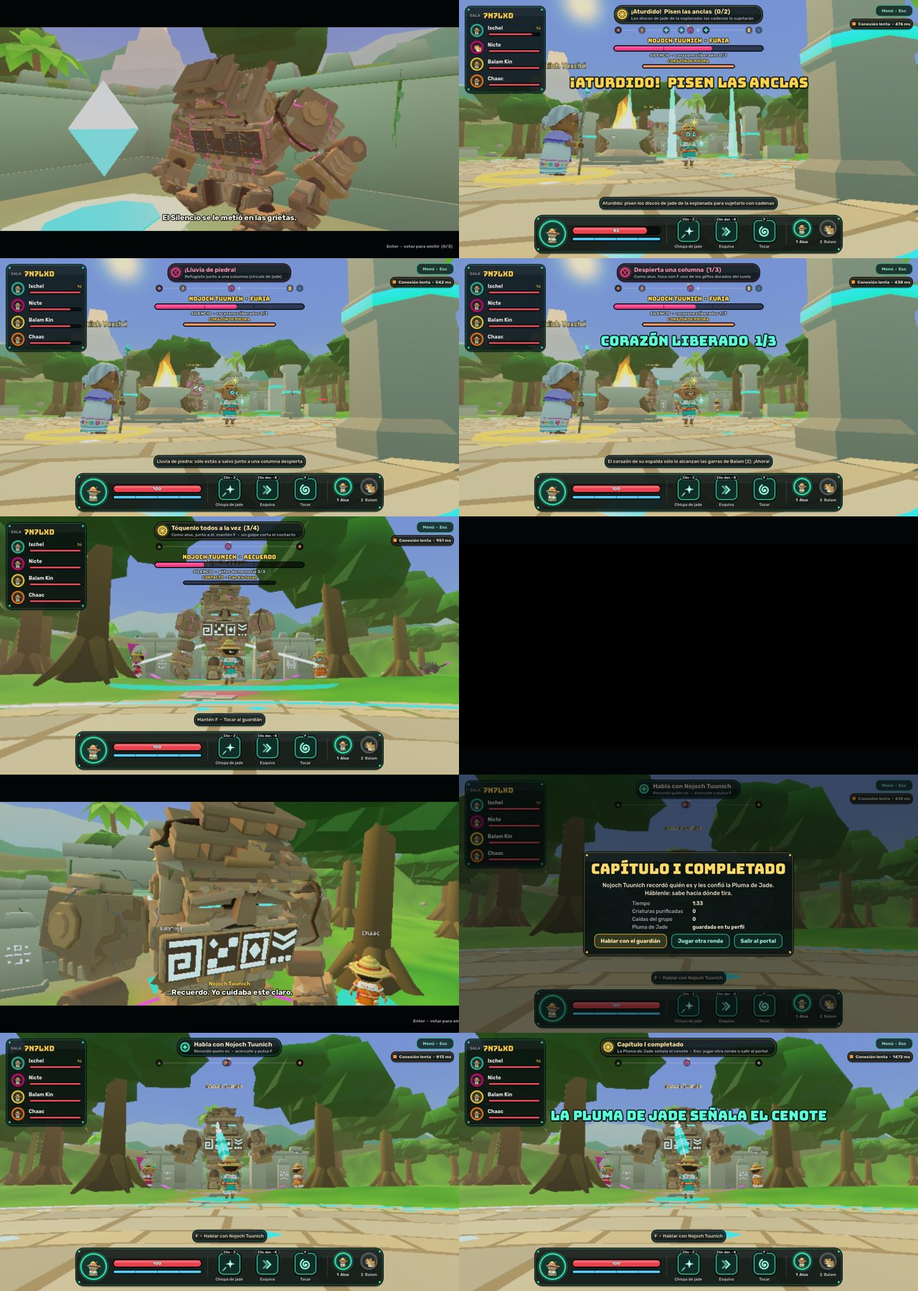
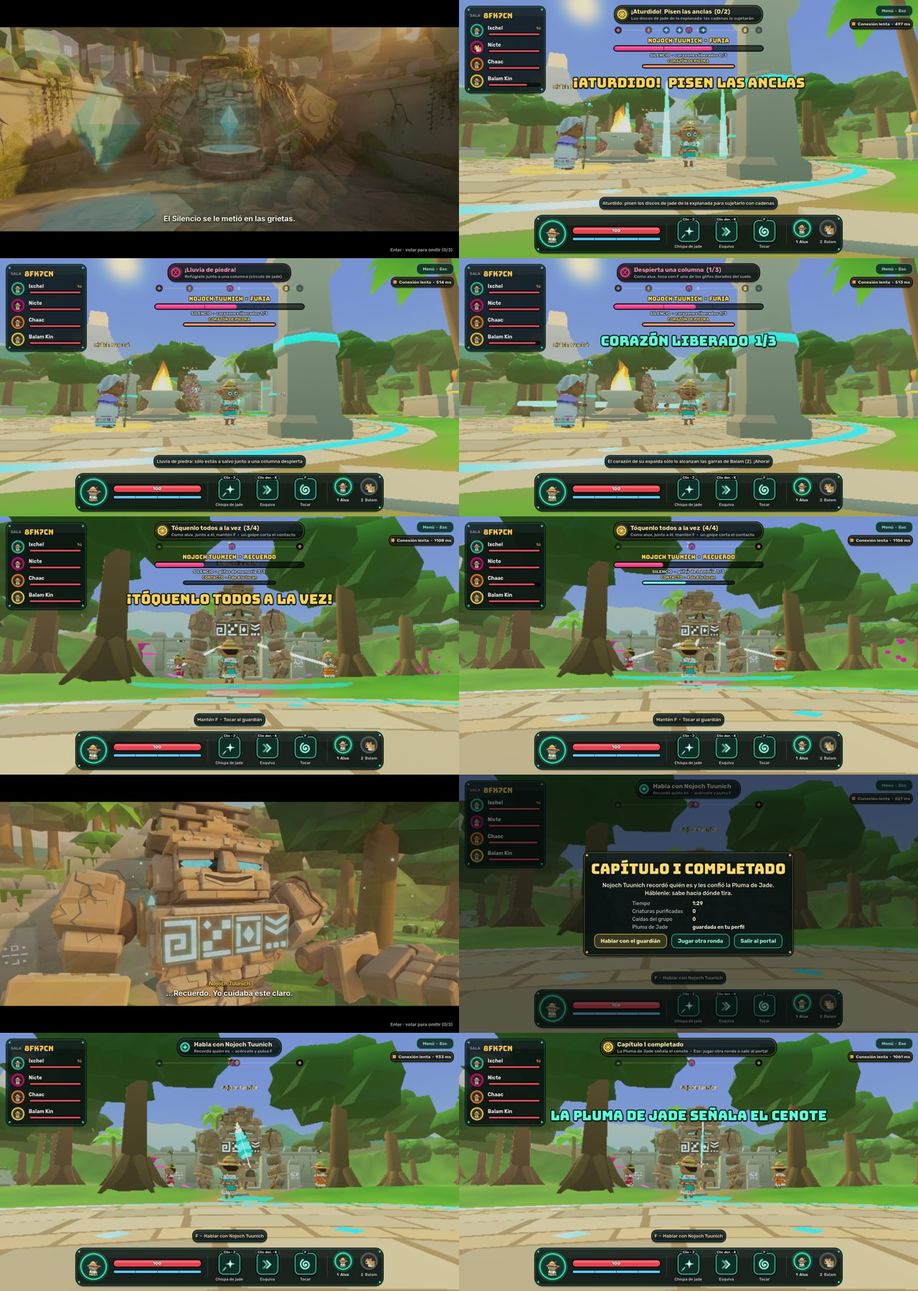
Candidata Alpha 0.3: documentación, pruebas ajustadas y limpieza al cambiar de fase
- Al cambiar de fase y al liberarlo, el guardián suelta a todas las criaturas
  corrompidas que tenga cerca, no sólo a las que él llamó (una criatura del
  claro podía colarse en el combate y quedarse).
- Pruebas ajustadas al despertar con cinemática: el flujo vigila la escena
  mientras el compañero entra al patio; la de altares la omite en grupo; la de
  vídeo sólo mira los clips de la escena que prueba. Variante del combate en
  navegador con el panel de victoria abierto (E2E_PANEL=1).
- La herramienta de capturas informa de llamadas de dibujo y triángulos.
- Etiqueta de la versión: Closed Alpha 0.3 RC1.
- RELEASES, ROADMAP, PLAYTEST, GAME_DESIGN y pendientes al día.

Claude-Session: https://claude.ai/code/session_01L9SqVoHULtq9hWDWFQFpkp

diff --git a/tests/e2e/boss-fight.ts b/tests/e2e/boss-fight.ts
@@ -70,17 +70,23 @@ await Promise.all(cast.map((a) => a.fight(cleared, 240, { form: 'balam', near: {
 await page.keyboard.up('KeyJ');
 assert.ok(cleared(), 'la emboscada se supera');
 await waitFor('panel de victoria', async () => (await st(page)).ui.result === true, 60_000);
-await page.keyboard.press('Enter');   // «Entrar al santuario»
-await waitFor('panel cerrado', async () => (await st(page)).ui.result === false, 30_000);
 let s = await st(page);
-assert.equal(s.encounter, 2, 'Enter en el panel sigue la aventura: no pide otra ronda');
-assert.match(s.ui.objective, /Entra al santuario/);
-ok('Emboscada superada; el panel invita a entrar al santuario');
-
-// La jugadora se queda mirando desde la plaza, fuera del alcance del combate
-await page.mouse.click(640, 300);
 const WATCH = { x: -1.5, z: 3.0 };
-const toWatch = driveTo(page, WATCH.x, WATCH.z, { timeoutMs: 300_000, stop: 1.2 });
+let toWatch: Promise<boolean> = Promise.resolve(true);
+// E2E_PANEL=1: la jugadora deja abierto el panel de victoria; el guardián despierta igual y su
+// cinemática tiene que verse (y cerrar el panel) aunque ella no haya tocado nada
+const keepPanel = process.env.E2E_PANEL === '1';
+if (!keepPanel) {
+  await page.keyboard.press('Enter');   // «Entrar al santuario»
+  await waitFor('panel cerrado', async () => (await st(page)).ui.result === false, 30_000);
+  s = await st(page);
+  assert.equal(s.encounter, 2, 'Enter en el panel sigue la aventura: no pide otra ronda');
+  assert.match(s.ui.objective, /Entra al santuario/);
+  ok('Emboscada superada; el panel invita a entrar al santuario');
+  // La jugadora se queda mirando desde la plaza, fuera del alcance del combate
+  await page.mouse.click(640, 300);
+  toWatch = driveTo(page, WATCH.x, WATCH.z, { timeoutMs: 300_000, stop: 1.2 });
+}
 
 // 3) Fase 1: un compañero entra al patio, el guardián despierta con su cinemática
 const b = () => cast[0].snap?.b as number[];
@@ -106,6 +112,14 @@ assert.match(s.ui.objective, /glifos del guardián/);
 assert.equal(s.music, 'mus_jefe', 'música propia del guardián');
 if (despertarVideo) assert.equal(sawDespertarVideo, true, 'con los vídeos descargados, «El despertar» se ve como vídeo');
 ok(`Fase 1 «Olvido»: despierta para todos con su cinemática (${sawDespertarVideo ? 'vídeo de Kling' : 'versión del motor'}), barra de Silencio y música propia (glifos ${s.boss[7]}/${s.boss[8]})`);
+if (keepPanel) {
+  assert.equal(s.ui.result, false, 'la cinemática cerró el panel de victoria');
+  ok('Con el panel de victoria abierto, «El despertar» se ve igual y el panel no vuelve a salir');
+  clearInterval(alive);
+  cast.forEach((a) => a.ws.close());
+  await browser.close();
+  process.exit(0);
+}
 assert.ok((await p1).every(Boolean), 'los compañeros completan la fase 1');
 await toWatch;
 

diff --git a/tests/e2e/playtest-flow.ts b/tests/e2e/playtest-flow.ts
@@ -187,8 +187,8 @@ if (s.boss !== undefined) {
   assert.equal(s.boss_bar, false, 'dormido no muestra barra');
   const alive = cast.slice(1).map((a) => a.idle(0, 1));
   await cast[0].walkTo(19.5, 0, 'alux', 25);
-  await cast[0].walkTo(25.5, 0, 'alux', 25);
-  const stay = cast[0].idle(1, 0);
+  // (al pisar el patio la sala se pausa para la cinemática: el compañero termina de entrar cuando acaba)
+  const entering = cast[0].walkTo(25.5, 0, 'alux', 60);
   await waitFor('el guardián despierta', async () => (await state(page) as any).boss[0] === 1, 30_000);
   // Su despertar es una cinemática compartida: se ve (con el motor si no hay vídeo) y se omite por mayoría
   await waitFor('cinemática «El despertar»', async () => (await state(page) as any).cine === 'despertar', 60_000);
@@ -196,6 +196,8 @@ if (s.boss !== undefined) {
   await shot(page, '06a-cinematica-despertar.png');
   cast.forEach((a) => a.ws.send(JSON.stringify({ t: 'skip' })));
   await waitFor('fin de «El despertar»', async () => (await state(page) as any).frozen === false && (await state(page) as any).cine === '', 60_000);
+  await entering;
+  const stay = cast[0].idle(1, 0);
   await waitFor('barra de Silencio', async () => (await state(page) as any).boss_bar === true, 15_000);
   s = await state(page);
   assert.match(s.ui.objective, /glifos del guardián/, 'el objetivo explica qué hacer con él');

diff --git a/tests/e2e/cine-video.ts b/tests/e2e/cine-video.ts
@@ -101,7 +101,9 @@ const cases: Record<string, (browser: Browser) => Promise<void>> = {
     assert.deepEqual([s.cine_stats.video, s.cine_stats.engine, s.cine_stats.fallbacks], [1, 0, 0], 'contada como vista en vídeo, sin recurrir al motor');
     assert.equal(s.video.log.length, 0, 'sin fallos registrados');
     await assertResumed(page, s);
-    await waitFor('decodificadores liberados', async () => Object.values(((await state(page)) as any).video.clips).every((c: any) => c.s === 'fetched'), 15_000);
+    // (los vídeos de otras escenas no están en el manifiesto de esta prueba: constan como ausentes)
+    await waitFor('decodificadores liberados', async () => Object.entries(((await state(page)) as any).video.clips)
+      .every(([id, c]: [string, any]) => c.s === (id.startsWith('sello_') ? 'fetched' : 'absent')), 15_000);
     assert.equal(await page.evaluate(() => document.querySelectorAll('#cine video').length), 0, 'al terminar no queda ningún <video> abierto');
     ok(`Vídeo sobre el juego: preparación ${prepMs} ms, tres planos con subtítulos, ${w.videoFrames} cuadros de vídeo, vuelta al juego con la emboscada${shotDone ? '' : ' (sin captura)'}`);
     console.log(`  rendimiento durante la escena: el juego dibuja ${((w.f1 - w.f0) / ((w.t1 - w.t0) / 1000)).toFixed(1)} cuadros/s por debajo (mundo sin dibujar mientras el vídeo lo tapa)`);

diff --git a/tests/protocol.test.ts b/tests/protocol.test.ts
@@ -368,9 +368,12 @@ test('acertijo + emboscada: 4 altares abren el santuario, los 4 pelean juntos y 
   assert.deepEqual([...calls[0].players].sort(), bots.map((b) => b.id).sort());
   assert.ok(bots.every((b) => b.events.some((e) => e.e === 'reward' && e.saved === true)));
 
-  // Con la puerta abierta se puede entrar al santuario
+  // Con la puerta abierta se puede entrar al santuario. Al pisar el patio despierta el guardián y
+  // la sala se pausa para «El despertar»: el grupo la omite y el bot termina de entrar.
+  bots.forEach((b) => { b.autoSkip = true; });
   assert.ok(await bots[3].walkTo(19, 0, 10));
-  assert.ok(await bots[3].walkTo(25, 0, 8), 'debería cruzar la puerta abierta');
+  assert.ok(await bots[3].walkTo(25, 0, 14), 'debería cruzar la puerta abierta');
+  assert.equal(bots[0].snap!.b![0], 1, 'y al entrar al patio despierta el guardián');
   bots.forEach((b) => b.close());
 });
 

diff --git a/apps/portal/app/page.tsx b/apps/portal/app/page.tsx
@@ -55,7 +55,7 @@ export default async function Home({ searchParams }: { searchParams: Promise<{ e
           {betaLoginEnabled && (
             <form className="dev-login beta-login" method="post" action="/auth/beta">
               <input type="hidden" name="next" value={next} />
-              <label htmlFor="beta-code">Closed Alpha 0.2.1 · entra con tu código de invitación</label>
+              <label htmlFor="beta-code">Closed Alpha 0.3 RC1 · entra con tu código de invitación</label>
               <div>
                 <input id="beta-code" name="code" maxLength={64} placeholder="ALUX-XXXXX-XXXXX-XXXXX-XXXXX" autoComplete="off"
                   autoCapitalize="characters" spellCheck={false} required />

diff --git a/docs/ROADMAP.md b/docs/ROADMAP.md
@@ -11,15 +11,15 @@ Pruebas: [PLAYTEST.md](PLAYTEST.md) · Versiones: [RELEASES.md](RELEASES.md).
 | Área | Estado real |
 | --- | --- |
 | Versión publicada | **Closed Alpha 0.2.1** en <https://alux-beta.onrender.com> (rama `beta`, commit `94bb9c8`), desde el 12 nov 2026: la 0.2 con «El sello cede» producida en Kling. Rollback a la 0.2: commit `c28e32c` ([RELEASES.md](RELEASES.md)). |
-| Versión candidata | Ninguna pendiente: `release/alpha-0.2.1-rc1` ya está publicada. |
-| Versión en desarrollo | **Alpha 0.3**, en la rama de trabajo, **sin publicar**: secuelas del sello en el santuario y el jefe Nojoch Tuunich con su fase 1 jugable ([BOSS.md](BOSS.md)). |
+| Versión candidata | **Alpha 0.3 RC1** (`release/alpha-0.3-rc1`): el jefe completo, sus dos cinemáticas y la Pluma de Jade. **Sin publicar**: espera tu visto bueno ([RELEASES.md](RELEASES.md)). |
+| Versión en desarrollo | Lo que siga a la 0.3, en la rama de trabajo. |
 | Multijugador | Servidor autoritativo, 4 jugadores, reconexión, salas. Verificado con bots, navegadores y contra el servicio desplegado (un jugador). **Cuatro personas reales a la vez: sin probar.** |
 | Combate y formas | Alux y Balam, dos enemigos, emboscada, derrota y otra ronda. Datos modulares (`combat_def.gd`). Equilibrio sin probar con personas. |
-| Historia | Introducción, un personaje con diálogo, primer objetivo narrativo y una escena compartida (Alpha 0.2). Sin jefe ni cierre de capítulo. |
-| Cinemáticas | Sistema híbrido y **«El sello cede» con Kling, publicados** (10 s, 284 créditos de 500). Las dos del jefe están diseñadas, con cuadros clave y prompts, sin producir. Quedan 2 375 créditos. |
+| Historia | Introducción, un personaje con diálogo, primer objetivo narrativo, **jefe con tres fases y cierre del capítulo** con la Pluma de Jade y la pista del Cenote (candidata 0.3). Falta «El vínculo de Balam». |
+| Cinemáticas | Sistema híbrido y **tres producidas con Kling**: «El sello cede» (publicada; 284 créditos), «El despertar» y «La liberación» de Nojoch Tuunich (candidata 0.3; 488 créditos de 800). Quedan 1 887 créditos. |
 | Escenario | Un solo mapa, definido en un único archivo compartido (`world_def.gd`). **No hay soporte para varias zonas.** |
-| Arte | Alux, Balam y Chiich Yaxché modelados y con los hilos de las prendas corregidos. Nojoch Tuunich: propuesta de modelo lista para revisar. Enemigos comunes con modelos provisionales. |
-| Audio | 38 sonidos generados por código. **Nadie los ha escuchado.** |
+| Arte | Alux, Balam, Chiich Yaxché y **Nojoch Tuunich (modelo definitivo)** modelados. Enemigos comunes con modelos provisionales. |
+| Audio | 69 sonidos generados por código (31 del jefe, con música por fase). **Nadie los ha escuchado.** |
 | Rendimiento | Medido sólo con render por software. **Sin datos de tarjeta gráfica**; las métricas de cada sesión real ya se registran. |
 | Acceso y datos | Invitaciones individuales, PostgreSQL en Render, migraciones automáticas. Discord real pendiente de credenciales. |
 | Infraestructura | Un contenedor de 512 MB (unos 300 MB con cuatro jugadores). Aviso de pago pendiente en la cuenta de Render. |
@@ -72,8 +72,9 @@ a los demás; ninguna prueba anterior se rompe.
 | **Incremento 1 (hecho)** | Sistema cinematográfico híbrido. |
 | **Incremento 2 (hecho)** | «El sello cede» producida con Kling e integrada, con sus dos tratamientos. |
 | **Incremento 3 (hecho)** | El santuario conserva las consecuencias de «El sello cede»: enredaderas, grietas, glifos que se asientan, restos magenta que se apagan y magia residual. |
-| **Incremento 4 (hecho)** | Nojoch Tuunich: modelo propuesto y fase 1 (Olvido) completa en servidor y cliente, con pruebas para 1, 2 y 4 jugadores. |
-| **Siguiente** | Fase 2 (Furia: anclas, embestida, corazón expuesto y salida a la explanada), fase 3 (Recuerdo), Pluma de Jade y las dos cinemáticas. |
+| **Incremento 4 (hecho)** | Nojoch Tuunich completo: modelo definitivo, tres fases, punto de control por fase, liberación, Pluma de Jade y pista del Cenote; pruebas con bots para 1, 2 y 4 jugadores y combate completo en navegador. |
+| **Incremento 5 (hecho)** | «El despertar» y «La liberación» producidas con Kling e integradas. |
+| **Siguiente** | Tu visto bueno para publicar la candidata. Después: probarla con personas y ajustar ritmo y dificultad; modelos propios de los dos enemigos comunes. |
 | **Dependencias** | Cinemáticas compartidas (0.2, incremento 2). Datos de rendimiento con tarjeta gráfica para decidir cuántos efectos caben. |
 | **Implementación** | El jefe reutiliza la IA de enemigos, los avisos de ataque, los altares de presión, la purificación y la derrota con reintento. |
 | **Pruebas** | Bots: victoria con 1, 2 y 4 jugadores; derrota y reintento; nadie puede saltarse fases desde el cliente. Navegador: flujo completo hasta vencer. |
@@ -84,7 +85,7 @@ a los demás; ninguna prueba anterior se rompe.
 | | |
 | --- | --- |
 | **Objetivo** | Que el capítulo tenga final: recompensa, revelación y camino al siguiente. |
-| **Alcance** | Pluma de Jade como recompensa persistente; cinemática final; «El vínculo de Balam» y el final como vídeo (Kling) con versión dentro del motor de respaldo. El reproductor de vídeo ya existe (0.3). |
+| **Alcance** | (La Pluma de Jade y la cinemática final se adelantaron a la 0.3.) «El vínculo de Balam» como vídeo de Kling con versión del motor; modelos propios de los enemigos; ajustes tras jugar el jefe con personas; la pluma en el aspecto del alux; rehacer el plano 3 de «El sello cede» con el coloso en el patio. |
 | **Dependencias** | Tu aprobación de guiones, storyboards y créditos de Kling. Modelos definitivos (para que los vídeos no queden viejos). |
 | **Aceptación** | El capítulo se juega de principio a fin en 20–30 minutos y deja claro adónde se va después. |
 
@@ -135,6 +136,7 @@ Historia, jefe y cierre de Los Secretos del Cenote, con la misma estructura que 
 | Publicar la Alpha 0.2 | **Autorizada y publicada** el 12 nov 2026. | [RELEASES.md](RELEASES.md) |
 | Publicar la Alpha 0.2.1 | **Autorizada y publicada** el 12 nov 2026, con «El sello cede» de Kling y los modelos corregidos. | [RELEASES.md](RELEASES.md) |
 | Concepto de Nojoch Tuunich | **Aprobado** (12 nov 2026): liberarlo del Silencio, tres fases, fase 2 en la explanada, reintento por fases, Pluma de Jade. | [BOSS.md](BOSS.md) |
+| Cinemáticas del jefe con Kling | **Autorizadas** (12 nov 2026): despertar hasta 450 créditos y liberación hasta 350, con el modelo definitivo y la mecánica verificados. Producidas: 488 en total. | [art/cinematicas/jefe/kling/PRODUCCION.md](../art/cinematicas/jefe/kling/PRODUCCION.md) |
 | Kling en las cinemáticas | **Obligatorio en toda cinemática narrativa** (12 nov 2026), con presupuesto por escena y respaldo del motor. La primera en producirse será «El sello cede». | [CINEMATICS.md](CINEMATICS.md) |
 | Voto para omitir cinemáticas compartidas | **Mayoría de los conectados**; un jugador solo omite al instante. | Implementado en 0.2 |
 
@@ -142,6 +144,4 @@ Historia, jefe y cierre de Los Secretos del Cenote, con la misma estructura que 
 
 | Decisión | Opciones | Recomendación |
 | --- | --- | --- |
-| Modelo de Nojoch Tuunich | Aprobarlo · pedir cambios (cara más serena, más talla, otra crestería) | Pedir al menos la cara y la talla antes de producir vídeos con él |
-| Presupuesto de las cinemáticas del jefe | Despertar (máx. 450) y liberación (máx. 350) · menos · esperar | Aprobarlo cuando el modelo esté cerrado |
-| Publicar la Alpha 0.3 | Cuando el jefe tenga sus tres fases · antes, con la fase 1 como adelanto | Esperar a las tres fases: hoy el combate se queda a medias |
+| Publicar la Alpha 0.3 | Publicar la candidata `release/alpha-0.3-rc1` en `beta` · probarla antes con el grupo en local · esperar | Publicarla: lleva regresión completa y rollback a la 0.2.1 sin tocar datos |

diff --git a/docs/PLAYTEST.md b/docs/PLAYTEST.md
@@ -1,7 +1,7 @@
 # Playtest: guía de la sesión y resultados
 
 
-Una sesión corta (10–15 minutos) para 1 a 4 personas. Esta guía sirve a quien organiza la prueba y
+Una sesión de 20–30 minutos para 1 a 4 personas (10–15 hasta la emboscada; el resto, el guardián). Esta guía sirve a quien organiza la prueba y
 a quien juega por primera vez.
 
 | Bienvenida | Emboscada |
@@ -40,12 +40,20 @@ Para jugar en una sola computadora, ver [README](../README.md#probarlo-en-tu-com
 | 2. Explorar | Objetivo arriba: «Pisa un altar…» o «Pisen N altares…». Los altares salen en la brújula. | Caminar hasta un altar y quedarse encima. Con varios jugadores, uno en cada altar. |
 | 3. Esperar | «Quédate en el altar (2/4) · esperando al grupo». | No moverse hasta que el grupo complete los altares. |
 | 4. Emboscada | Aviso, música de combate y objetivo «Quedan N enemigos». | Vencer o purificar a todos. |
-| 5. Resultado | Panel de **Victoria** (resumen y sello) o de **Derrota**. | Otra ronda, seguir explorando, reintentar o salir. |
+| 5. Resultado | Panel de **Victoria** (resumen y sello) o de **Derrota**. | Enter: entrar al santuario. O reintentar, otra ronda (con su botón) o salir. |
+| 6. El guardián despierta (0.3) | Al entrar al patio, la cinemática «El despertar» y la barra de Silencio. | Fase 1: debilitar criaturas y tocarlas con F **junto a él**. Sus golpes no le hacen nada. |
+| 7. La explanada (0.3) | El guardián sale andando del santuario. Glifos dorados y discos de jade en el suelo. | Fase 2: un alux despierta una columna (F), el grupo hace que embista contra ella, se pisan las anclas y Balam golpea el corazón. Tres veces. Bajo la lluvia de piedra, junto a una columna. |
+| 8. El ritual (0.3) | El guardián se arrodilla. | Fase 3: purificar criaturas junto a él para encender los glifos del suelo; después, todos como alux mantienen F a su lado a la vez. |
+| 9. Liberación (0.3) | Cinemática «La liberación» y panel **Capítulo I completado**. | Hablar con el guardián (F): da la pista del Cenote. La Pluma de Jade queda en el perfil. |
 
 - **Victoria**: no queda ningún enemigo. Todos reciben el Sello del Claro (una sola vez por perfil).
 - **Derrota**: todo el grupo conectado está caído a la vez. El santuario se sella y, a los 6 s, se
   puede volver a pisar los altares.
 - **Otra ronda**: tras la victoria, la piden todos los jugadores (botón del panel o del menú).
+- **Derrota contra el guardián**: si cae todo el grupo, se duerme y el combate se retoma desde la
+  fase alcanzada; no hay que volver a abrir el santuario ni repetir fases.
+
+![El combate con Nojoch Tuunich, fase a fase](img/jefe-fases.jpg)
 
 ## Controles
 
@@ -88,6 +96,18 @@ Los dos enemigos: el **guardián de piedra** (lento, golpea en área, resiste la
 - ¿El volumen por defecto molesta? ¿Algún sonido cansa?
 - ¿Algún momento de confusión con la cámara o el ratón?
 
+Con el guardián (0.3), que nadie ha jugado todavía:
+
+- ¿Entienden que no se le pega, que hay que devolverle la memoria? ¿Cuánto tardan?
+- ¿Descubren solos las columnas, la embestida, las anclas y el corazón, o hace falta explicarlo?
+- ¿Se reparten papeles? ¿Alguien se queda sin nada que hacer?
+- ¿La lluvia de piedra y la embestida se ven venir a tiempo? ¿El daño es justo?
+- ¿El contacto final (todos manteniendo F) se entiende? ¿Frustra cuando una criatura lo corta?
+- ¿Cuánto dura cada fase? ¿Se hace larga alguna?
+- ¿La cara del guardián se lee triste al principio y serena al final?
+- ¿Las dos cinemáticas se ven enteras? ¿Alguien quiere omitirlas?
+- ¿La sacudida de cámara molesta a alguien?
+
 ## Resultados
 
 | Fecha | Versión | Qué se probó | Resultado |
@@ -111,6 +131,7 @@ y las métricas que registró el juego (`npm run beta:metrics`).
 - Los enemigos siguen siendo modelos provisionales.
 - Sin mando ni controles táctiles: teclado y ratón.
 - El rendimiento con tarjeta gráfica real no está medido (ver [rendimiento.md](rendimiento.md)).
-- Un solo escenario y un solo encuentro.
+- Un solo escenario; dos encuentros (la emboscada y el guardián).
+- El combate con el guardián no lo ha jugado ninguna persona: su ritmo y dificultad son una apuesta.
 
 Lo demás, en [pendientes.md](pendientes.md).

diff --git a/docs/pendientes.md b/docs/pendientes.md
@@ -72,19 +72,24 @@ como pendiente debe darse por hecho.
     hablante de maya yucateco.
   - Kling: storyboard de «El vínculo de Balam» aprobado y una toma de prueba hecha (50 créditos por
     5 s). Presupuestos por escena en [CINEMATICS.md](CINEMATICS.md), **todos sin aprobar**.
-- **Jefe Nojoch Tuunich (Alpha 0.3, sin publicar)**
-  - Hecho: fase 1 completa en servidor y cliente, modelo propuesto, barra de Silencio explicada,
-    avisos de ataque, derrota y reintento. Probado con bots para 1, 2 y 4 jugadores.
-  - **Sin programar:** fases 2 y 3, el escenario que cambia (muros, anclas, pilares), la Pluma de
-    Jade y las dos cinemáticas. Al completar la fase 1 el guardián se queda de rodillas.
-  - El golpe de losa deja escombros que hacen daño; el suelo todavía no se hunde.
-  - Sus golpes no se pueden esquivar con ayuda visual más allá del aviso en el suelo: falta probar
-    con personas si se leen a tiempo y si el daño está bien medido.
-  - El modelo es provisional hasta tu revisión: cara adusta, poca talla, caliza verdosa con la luz
-    del juego; las animaciones sólo se han visto en cuadros sueltos.
-  - Sin sonidos propios (usa los de los enemigos) ni presentación: despierta sin escena.
-  - Sin medir su costo en navegador con tarjeta gráfica ni la memoria del servidor en combate.
-  - Chiich Yaxché todavía no dice nada sobre él.
+- **Jefe Nojoch Tuunich (Alpha 0.3, candidata sin publicar)**
+  - Hecho: las tres fases en servidor y cliente, modelo definitivo, punto de control por fase,
+    liberación, Pluma de Jade, pista del Cenote, sonidos, música por fase y las dos cinemáticas con
+    Kling. Probado con bots (1, 2 y 4 jugadores) y en un navegador real con una jugadora y tres bots.
+  - **Nadie lo ha jugado.** Ritmo, dificultad, daño y si las pistas bastan están sin validar. Los
+    bots completan el combate en 2–5 minutos jugando perfecto; con personas será otra cosa.
+  - Las columnas de la fase 2 no son sólidas: dan refugio y paran la embestida, pero se pueden
+    atravesar. Tampoco hay muros que caigan ni suelo que se hunda (exige sólidos dinámicos en la
+    simulación compartida).
+  - El corazón expuesto se alcanza con cualquier golpe de Balam desde el suelo; el diseño original
+    pedía un salto.
+  - La pluma no se ve en el alux (sólo en el perfil y flotando ante el guardián).
+  - En «El sello cede», publicada antes de que existiera, el patio sale **sin** el coloso.
+  - Las cinemáticas usan sonidos generados por código, no audio de Kling; nadie los ha escuchado.
+  - El cambio entre las músicas de fase no va sincronizado al compás.
+  - Sin medir con tarjeta gráfica. Con render por software el combate completo va a 1–3 FPS, como
+    el resto del juego en ese entorno.
+  - Una criatura ambiental del claro puede acercarse al combate y contar para los glifos.
 - **Secuelas del sello en el santuario (Alpha 0.3, sin publicar)**
   - Hechas: enredaderas, grietas, glifos y marcas que se apagan, restos magenta, magia residual.
   - El vídeo sigue siendo más rico que el escenario (luz de atardecer, musgo, piedra tallada).

diff --git a/docs/GAME_DESIGN.md b/docs/GAME_DESIGN.md
@@ -48,15 +48,17 @@ planear, escudo), se añade ese tipo a la simulación compartida con sus pruebas
 | --- | --- | --- | --- |
 | Guardián de piedra | Lento, golpe en área, resiste las chispas | «!» y marca en el suelo antes del golpe | En el juego (modelo provisional) |
 | Criatura corrompida | Rápida, embiste, débil a las chispas, **purificable** | Anillo de jade y «F» cuando ya se puede purificar | En el juego (modelo provisional) |
-| **Nojoch Tuunich**, el Guardián Dormido | Jefe del Capítulo I | Ver abajo | Diseñado |
+| **Nojoch Tuunich**, el Guardián Dormido | Jefe del Capítulo I | Ver abajo | **Hecho** (0.3) |
 
 En la historia, los dos enemigos actuales son los guardianes y los animales del claro tocados por el
 Silencio: por eso algunos se purifican y los de piedra sólo se detienen.
 
 ## Jefe del Capítulo I: Nojoch Tuunich (resumen)
 
-**El diseño completo, con ataques, escenario, cinemáticas y recompensa, está en [BOSS.md](BOSS.md)**
-(pendiente de tu aprobación). Lo de abajo es el resumen original.
+**El diseño completo y lo construido (ataques, escenario, cinemáticas y recompensa) está en
+[BOSS.md](BOSS.md).** Lo de abajo es el resumen original; donde difiere, manda BOSS.md (las columnas
+las despiertan los jugadores, las anclas son discos de la explanada y el contacto final se mantiene
+con F).
 
 Un coloso de piedra dormido en el patio del santuario. No es malvado: olvidó a quién cuida.
 Se le vence haciéndole recordar. Reutiliza sistemas que ya existen.
@@ -83,7 +85,7 @@ mundo. El cliente elige con ellas el objetivo, la marca de la brújula y qué di
 | `altares` | Pisa un altar / Pisen N altares | Regla actual de los altares |
 | `emboscada` | Quedan N enemigos | Regla actual |
 | `derrota` | El santuario se selló de nuevo | Automático tras unos segundos |
-| `liberado` | Santuario liberado | — (seguirá el jefe en 0.3) |
+| `liberado` | Santuario abierto | Entra al santuario: el guardián duerme dentro. Tras liberarlo: habla con él y recibe la pista del Cenote |
 
 Hablar con la abuela **no es obligatorio**: quien ya conoce el juego puede ir directo a los altares.
 Los personajes no tienen colisión y su posición y alcance están en `shared/story_def.gd`.
@@ -94,7 +96,7 @@ Los personajes no tienen colisión y su posición y alcance están en `shared/st
 | --- | --- | --- |
 | Formas vinculadas | Perfil del jugador (`unlocks`) | En el juego (Alux y Balam de inicio) |
 | Sello del Claro | Perfil (`rewards_ledger`), una vez por jugador | En el juego |
-| Plumas de Kukulkán | Perfil; una por capítulo | Planeado (0.4): el sello pasa a ser la Pluma de Jade |
+| Plumas de Kukulkán | Perfil; una por capítulo | **Hecho (0.3):** la Pluma de Jade, objeto ancestral que entrega Nojoch Tuunich y señala el Cenote |
 | Avance del capítulo | Perfil (`rewards_ledger`): «El llamado de la abuela» al hablar con ella | En el juego (0.2). La sala nueva aún empieza la historia desde el principio |
 
 ## Controles
